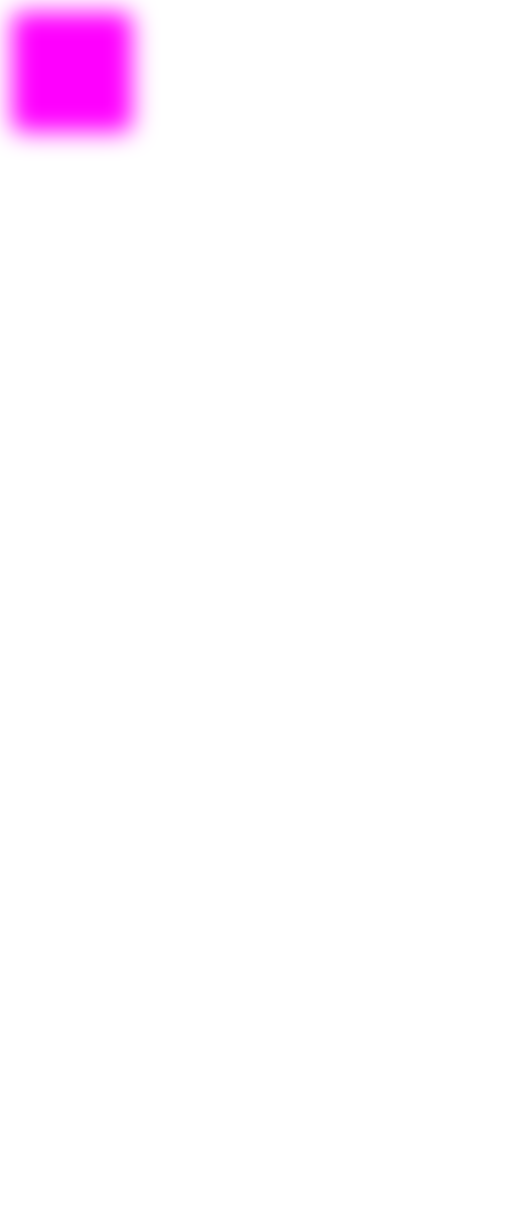
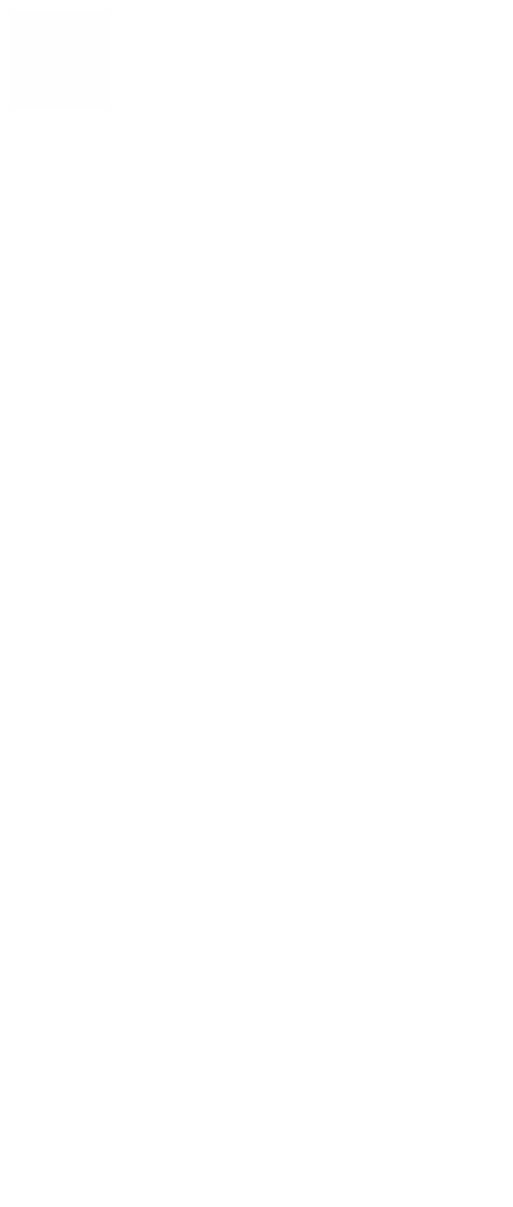
update

Changed region(s): [[0.0, 0.0, 0.3119, 0.1226]]

diff --git a/__tests__/boxDecoration.test.ts b/__tests__/boxDecoration.test.ts
@@ -15,29 +15,30 @@ test(`Skia`, async () => {
   const canvas = Canvas.malloc(surface?.getCanvas() as SkiaCanvas)
 
   const box = new BoxDecoration({
-    border: Border.all(
-      new Color(0xffffffff),
-      2.0,
-      BorderStyle.Solid
-    ),
-    borderRadius: BorderRadius.only(
-      Radius.circular(10.0),
-      Radius.circular(10.0),
-      Radius.circular(10.0),
-      Radius.circular(10.0),
-    ),
-    boxShadow: [
-        new BoxShadow(
-          new Color(0xffff00ff),
-          new Offset(12, 12),
-          20,
-          10
-        ) 
-    ],
+    // border: Border.all(
+    //   new Color(0xffffffff),
+    //   2.0,
+    //   BorderStyle.Solid
+    // ),
+    // borderRadius: BorderRadius.only(
+    //   Radius.circular(10.0),
+    //   Radius.circular(10.0),
+    //   Radius.circular(10.0),
+    //   Radius.circular(10.0),
+    // ),
+    // boxShadow: [
+    //   new BoxShadow(
+    //     new Color(0xffff00ff),
+    //     new Offset(12, 12),
+    //     20,
+    //     10
+    //   ) 
+    // ],
     gradient: new LinearGradient({
-      begin: Alignment.topRight,
-      end: Alignment.bottomLeft,
-      colors: [Color.fromRGBO(63, 68, 72, 1), Color.fromRGBO(36, 41, 46, 1)],
+      colors: [
+        Color.fromRGBO(63, 68, 72, 1),
+        Color.fromRGBO(12, 34, 41, 1)
+      ],
       stops: [0.0, 1.0],
       tileMode: Skia.TileMode.Clamp,
       transform: null

diff --git a/src/Painting/Gradient.ts b/src/Painting/Gradient.ts
@@ -226,8 +226,8 @@ export abstract class Gradient {
 }
 
 export type LinearGradientInitOptions = {
-  begin: AlignmentGeometry,
-  end: AlignmentGeometry,
+  begin?: AlignmentGeometry | null,
+  end?: AlignmentGeometry | null,
   colors: Color[],
   stops: number[] | null,
   tileMode: SkiaTileMode,
@@ -241,6 +241,9 @@ export class LinearGradient extends Gradient {
   public tileMode: SkiaTileMode
 
   constructor (options: LinearGradientInitOptions) {
+    options.begin = options.begin ?? null
+    options.end = options.end ?? null
+
     invariant(options.begin !== null)
     invariant(options.end !== null)
     invariant(options.tileMode !== null)

diff --git a/src/Painting/BoxDecoration.ts b/src/Painting/BoxDecoration.ts
@@ -278,7 +278,6 @@ export class BoxDecorationPainter extends BoxPainter {
         paint.color = this.decoration!.color!
       }
       if (this.decoration.gradient !== null) {
-        debugger
         paint.shader = this.decoration!.gradient!.createShader(
           rect, 
           textDirection
